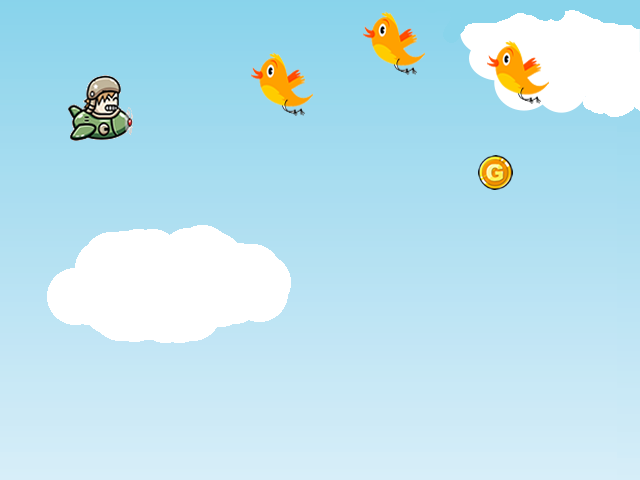
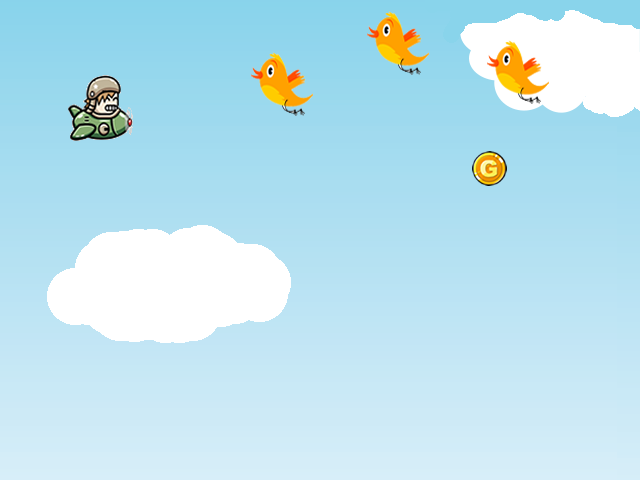
added instrcution scene and background to the scenes

Changed region(s): [[0.5625, 0.0312, 0.6875, 0.1562], [0.7188, 0.3125, 0.8125, 0.4062]]

diff --git a/Scripts/scenes/instruction.ts b/Scripts/scenes/instruction.ts
@@ -1,38 +1,45 @@
-// MENU SCENE
+// INSTRUCTION SCENE
 module scenes {
     export class Instruction extends objects.Scene {
         //PRIVATE INSTANCE VARIABLES ++++++++++++
-        private _menuLabel: objects.Label;
+        private _background: createjs.Bitmap;
+        private _instructionLabel: objects.Label;
         private _startButton: objects.Button;
-        
+
         // CONSTRUCTOR ++++++++++++++++++++++
         constructor() {
             super();
         }
-        
+
         // PUBLIC METHODS +++++++++++++++++++++
-        
+
+
         // Start Method
         public start(): void {
+
+            // added background 
+            this._background = new createjs.Bitmap(assets.getResult("InstructionScene"));
+            this.addChild(this._background);
+            
             //Add Menu Label
-            this._menuLabel = new objects.Label(
-                "MENU SCENE", "60px Consolas",
+            this._instructionLabel = new objects.Label(
+                "INSTRUCTION", "60px Consolas",
                 "#000000",
-                config.Screen.CENTER_X, config.Screen.CENTER_Y, true);
-            this.addChild(this._menuLabel);
-            
-            
+                150, 138, false);
+            this.addChild(this._instructionLabel);
+
+
             // add the Start button to the MENU scene
             this._startButton = new objects.Button(
                 "StartButton",
                 config.Screen.CENTER_X,
                 config.Screen.CENTER_Y + 180, true);
             this.addChild(this._startButton);
-            
+
             // Start Button event listener
             this._startButton.on("click", this._startButtonClick, this);
-            
-            
+
+
             // add this scene to the global stage container
             stage.addChild(this);
         }
@@ -41,10 +48,10 @@ module scenes {
         public update(): void {
 
         }
-        
-        
+
+
         //EVENT HANDLERS ++++++++++++++++++++
-        
+
         // LEFT_CAVE Button click event handler
         private _startButtonClick(event: createjs.MouseEvent) {
             // Switch to the LEFT_CAVE Scene

diff --git a/Scripts/scenes/menu.ts b/Scripts/scenes/menu.ts
@@ -5,6 +5,7 @@ module scenes {
         private _background: createjs.Bitmap;
         private _menuLabel: objects.Label;
         private _startButton: objects.Button;
+        private _instructionButton: objects.Button;
 
         // CONSTRUCTOR ++++++++++++++++++++++
         constructor() {
@@ -30,12 +31,21 @@ module scenes {
             // add the Start button to the MENU scene
             this._startButton = new objects.Button(
                 "StartButton",
-                config.Screen.CENTER_X,
+                config.Screen.CENTER_X - 170,
                 config.Screen.CENTER_Y + 180, true);
             this.addChild(this._startButton);
 
+            // add the instruction button to the MENU scene
+            this._instructionButton = new objects.Button(
+                "InstructionButton",
+                config.Screen.CENTER_X + 170,
+                config.Screen.CENTER_Y + 180, true);
+            this.addChild(this._instructionButton);
+
             // Start Button event listener
             this._startButton.on("click", this._startButtonClick, this);
+            // Instruction Button event listener
+            this._instructionButton.on("click", this._instructionButtonClick, this);
 
 
             // add this scene to the global stage container
@@ -54,6 +64,11 @@ module scenes {
         private _startButtonClick(event: createjs.MouseEvent) {
             // Switch to the LEFT_CAVE Scene
             scene = config.Scene.PLAY;
+            changeScene();
+        }
+        
+        private _instructionButtonClick(event: createjs.MouseEvent) {
+            scene = config.Scene.INSTRUCTION;
             changeScene();
         }
 

diff --git a/Scripts/scenes/menu.js b/Scripts/scenes/menu.js
@@ -22,10 +22,15 @@ var scenes;
             this._menuLabel = new objects.Label("MENU SCENE", "60px Consolas", "#000000", config.Screen.CENTER_X, config.Screen.CENTER_Y, true);
             this.addChild(this._menuLabel);
             // add the Start button to the MENU scene
-            this._startButton = new objects.Button("StartButton", config.Screen.CENTER_X, config.Screen.CENTER_Y + 180, true);
+            this._startButton = new objects.Button("StartButton", config.Screen.CENTER_X - 170, config.Screen.CENTER_Y + 180, true);
             this.addChild(this._startButton);
+            // add the instruction button to the MENU scene
+            this._instructionButton = new objects.Button("InstructionButton", config.Screen.CENTER_X + 170, config.Screen.CENTER_Y + 180, true);
+            this.addChild(this._instructionButton);
             // Start Button event listener
             this._startButton.on("click", this._startButtonClick, this);
+            // Instruction Button event listener
+            this._instructionButton.on("click", this._instructionButtonClick, this);
             // add this scene to the global stage container
             stage.addChild(this);
         };
@@ -37,6 +42,10 @@ var scenes;
         Menu.prototype._startButtonClick = function (event) {
             // Switch to the LEFT_CAVE Scene
             scene = config.Scene.PLAY;
+            changeScene();
+        };
+        Menu.prototype._instructionButtonClick = function (event) {
+            scene = config.Scene.INSTRUCTION;
             changeScene();
         };
         return Menu;

diff --git a/Scripts/scenes/instruction.js b/Scripts/scenes/instruction.js
@@ -3,7 +3,7 @@ var __extends = (this && this.__extends) || function (d, b) {
     function __() { this.constructor = d; }
     d.prototype = b === null ? Object.create(b) : (__.prototype = b.prototype, new __());
 };
-// MENU SCENE
+// INSTRUCTION SCENE
 var scenes;
 (function (scenes) {
     var Instruction = (function (_super) {
@@ -15,9 +15,12 @@ var scenes;
         // PUBLIC METHODS +++++++++++++++++++++
         // Start Method
         Instruction.prototype.start = function () {
+            // added background 
+            this._background = new createjs.Bitmap(assets.getResult("InstructionScene"));
+            this.addChild(this._background);
             //Add Menu Label
-            this._menuLabel = new objects.Label("MENU SCENE", "60px Consolas", "#000000", config.Screen.CENTER_X, config.Screen.CENTER_Y, true);
-            this.addChild(this._menuLabel);
+            this._instructionLabel = new objects.Label("INSTRUCTION", "60px Consolas", "#000000", 150, 138, false);
+            this.addChild(this._instructionLabel);
             // add the Start button to the MENU scene
             this._startButton = new objects.Button("StartButton", config.Screen.CENTER_X, config.Screen.CENTER_Y + 180, true);
             this.addChild(this._startButton);

diff --git a/Scripts/scenes/end.ts b/Scripts/scenes/end.ts
@@ -5,6 +5,7 @@ module scenes {
         private _background: createjs.Bitmap;
         private _endLabel: objects.Label;
         private _restartButton: objects.Button;
+        private _finalScore: objects.ScoreSystem;
         
         // CONSTRUCTOR ++++++++++++++++++++++
         constructor() {
@@ -24,8 +25,14 @@ module scenes {
             this._endLabel = new objects.Label(
                 "END SCENE", "60px Consolas",
                 "#000000",
-                config.Screen.CENTER_X, config.Screen.CENTER_Y, true);
+                config.Screen.CENTER_X, config.Screen.CENTER_Y-30, true);
             this.addChild(this._endLabel);
+            
+            // add final score to the scene
+            this._finalScore = new objects.ScoreSystem("ScoreLabel", 
+            210,
+            config.Screen.CENTER_Y + 60);
+            this.addChild(this._finalScore);
             
             // add the BACK button to the OVER scene
             this._restartButton = new objects.Button(

diff --git a/Scripts/scenes/end.js b/Scripts/scenes/end.js
@@ -19,8 +19,11 @@ var scenes;
             this._background = new createjs.Bitmap(assets.getResult("MenuScene"));
             this.addChild(this._background);
             //Add Menu Label
-            this._endLabel = new objects.Label("END SCENE", "60px Consolas", "#000000", config.Screen.CENTER_X, config.Screen.CENTER_Y, true);
+            this._endLabel = new objects.Label("END SCENE", "60px Consolas", "#000000", config.Screen.CENTER_X, config.Screen.CENTER_Y - 30, true);
             this.addChild(this._endLabel);
+            // add final score to the scene
+            this._finalScore = new objects.ScoreSystem("ScoreLabel", 210, config.Screen.CENTER_Y + 60);
+            this.addChild(this._finalScore);
             // add the BACK button to the OVER scene
             this._restartButton = new objects.Button("RestartButton", config.Screen.CENTER_X, config.Screen.CENTER_Y + 180, true);
             this.addChild(this._restartButton);

diff --git a/Scripts/core/game.ts b/Scripts/core/game.ts
@@ -20,7 +20,9 @@ var assetData: objects.Asset[] = [
     { id: "StartButton", src: "../../Assets/images/StartButton.png" },
     { id: "RestartButton", src: "../../Assets/images/RestartButton.png" },
     { id: "BackButton", src: "../../Assets/images/BackButton.png" },
+    { id: "InstructionButton", src: "../../Assets/images/InstructionButton.png" },
     { id: "MenuScene", src: "../../Assets/images/MenuScene.png" },
+    { id: "InstructionScene", src: "../../Assets/images/InstructionScene.png" },
     { id: "sky", src: "../../Assets/images/sky.png" },
     { id: "plane", src: "../../Assets/images/plane.png" },
     { id: "gold", src: "../../Assets/images/gold.png" },

diff --git a/Scripts/core/game.js b/Scripts/core/game.js
@@ -16,7 +16,9 @@ var assetData = [
     { id: "StartButton", src: "../../Assets/images/StartButton.png" },
     { id: "RestartButton", src: "../../Assets/images/RestartButton.png" },
     { id: "BackButton", src: "../../Assets/images/BackButton.png" },
+    { id: "InstructionButton", src: "../../Assets/images/InstructionButton.png" },
     { id: "MenuScene", src: "../../Assets/images/MenuScene.png" },
+    { id: "InstructionScene", src: "../../Assets/images/InstructionScene.png" },
     { id: "sky", src: "../../Assets/images/sky.png" },
     { id: "plane", src: "../../Assets/images/plane.png" },
     { id: "gold", src: "../../Assets/images/gold.png" },

diff --git a/Scripts/managers/collision.js b/Scripts/managers/collision.js
@@ -5,7 +5,7 @@ var managers;
         function Collision(player) {
             this._player = player;
             this._score = 0;
-            this._lifeCount = 100;
+            this._lifeCount = 500;
         }
         Collision.prototype.distance = function (startPoint, endPoint) {
             return Math.sqrt(Math.pow((endPoint.x - startPoint.x), 2) + Math.pow((endPoint.y - startPoint.y), 2));

diff --git a/Scripts/managers/collision.ts b/Scripts/managers/collision.ts
@@ -9,7 +9,7 @@ module managers {
         constructor(player: objects.Player) {
             this._player = player;
             this._score = 0;
-            this._lifeCount = 100;
+            this._lifeCount = 500;
         }
 
         public distance(startPoint: createjs.Point, endPoint: createjs.Point): number {

diff --git a/Scripts/scenes/play.js b/Scripts/scenes/play.js
@@ -16,7 +16,7 @@ var scenes;
         // Start Method
         Play.prototype.start = function () {
             //set bird count
-            this._birdCount = 3;
+            this._birdCount = 4;
             //instantiate bird array
             this._birds = new Array();
             //added sky to the scene

diff --git a/Scripts/scenes/play.ts b/Scripts/scenes/play.ts
@@ -29,7 +29,7 @@ module scenes {
 
 
             //set bird count
-            this._birdCount = 3;
+            this._birdCount = 4;
 
             //instantiate bird array
             this._birds = new Array<objects.Bird>();
